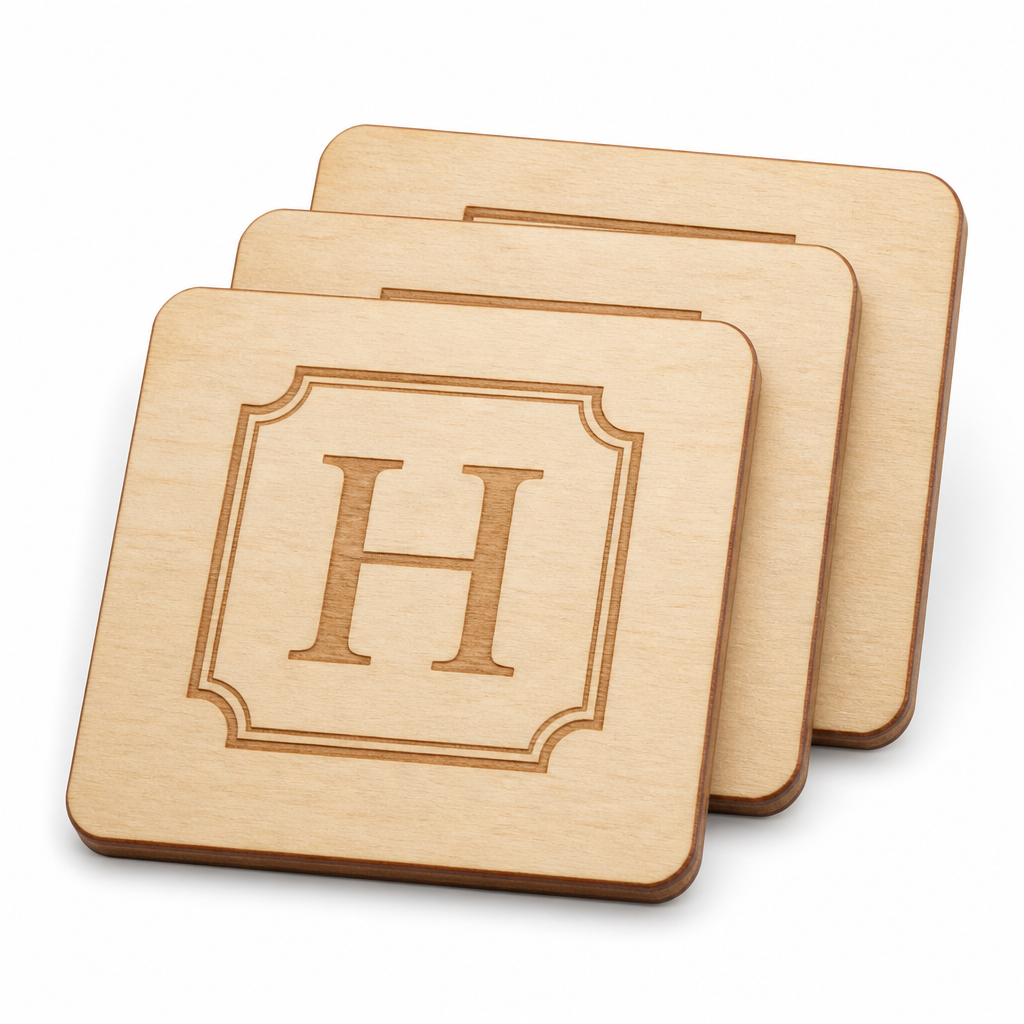
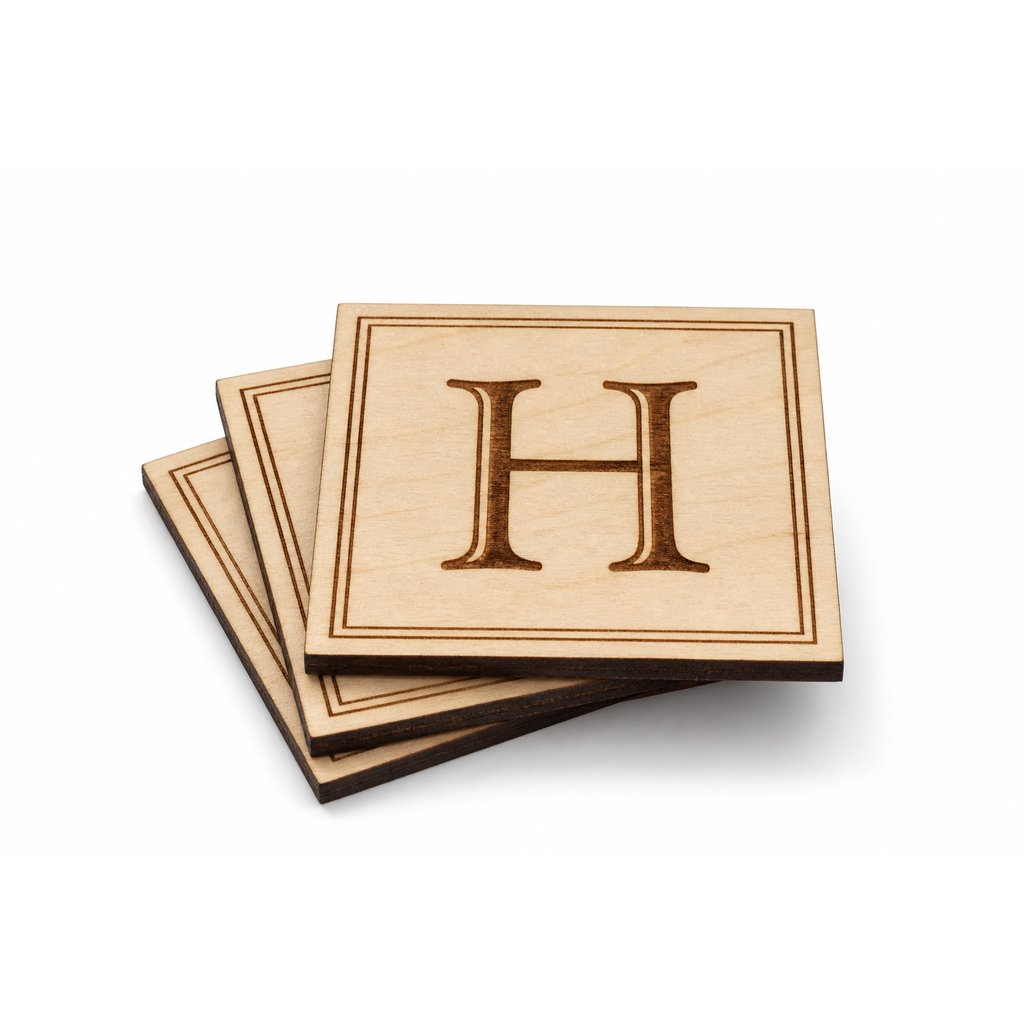
Replace round demo product photos with angular laser-cut ones
Swap circular/oval product imagery (mandala, clock, coasters,
medals, baby plaque, wreath, pendants, hearts) for square,
hexagonal or star-shaped plywood laser-cut photos, and update
catalog labels/sizes to match.

diff --git a/src/data/catalog-products.ts b/src/data/catalog-products.ts
@@ -107,11 +107,11 @@ const DRAFTS: Draft[] = [
     ]),
   },
   {
-    name: "Ключодържател сърце",
+    name: "Ключодържател геометрично сърце",
     slug: "klyuchodarzhatel-sarce",
     category: "keychains",
     description:
-      "Ажурно изрязано сърце с опция за гравиран текст отвътре. Класически подарък за Свети Валентин и годишнини.",
+      "Ажурно геометрично сърце с прави линии — типично за лазерно рязане. Опция за гравиран текст.",
     basePrice: 11,
     options: opts([
       {
@@ -544,19 +544,19 @@ const DRAFTS: Draft[] = [
     slug: "mandala-stenen-dekor",
     category: "decor",
     description:
-      "Фино изрязана мандала с концентрични мотиви. Акцент за хол, йога студио или спалня.",
+      "Квадратен ажурен панел с геометрична мандала. Акцент за хол, йога студио или спалня.",
     basePrice: 44,
     options: opts([
       {
-        label: "ø30 см · 3 мм",
-        sizeLabel: "ø30 см",
+        label: "30×30 см · 3 мм",
+        sizeLabel: "30×30 см",
         thicknessMm: 3,
         laserType: "CUT",
         priceModifier: 0,
       },
       {
-        label: "ø45 см · 4 мм · масло",
-        sizeLabel: "ø45 см",
+        label: "45×45 см · 4 мм · масло",
+        sizeLabel: "45×45 см",
         thicknessMm: 4,
         laserType: "CUT",
         finish: "oil",
@@ -619,19 +619,19 @@ const DRAFTS: Draft[] = [
     slug: "stenen-chasovnik",
     category: "decor",
     description:
-      "Лазерно изрязан циферблат с място за стандартен часовников механизъм (не е включен).",
+      "Квадратен лазерно изрязан циферблат с място за стандартен часовников механизъм (не е включен).",
     basePrice: 52,
     options: opts([
       {
-        label: "ø30 см · 4 мм",
-        sizeLabel: "ø30 см",
+        label: "30×30 см · 4 мм",
+        sizeLabel: "30×30 см",
         thicknessMm: 4,
         laserType: "BOTH",
         priceModifier: 0,
       },
       {
-        label: "ø40 см · ажур · масло",
-        sizeLabel: "ø40 см",
+        label: "40×40 см · ажур · масло",
+        sizeLabel: "40×40 см",
         thicknessMm: 4,
         laserType: "BOTH",
         finish: "oil",
@@ -1216,11 +1216,11 @@ const DRAFTS: Draft[] = [
     ]),
   },
   {
-    name: "Валентинско сърце орнамент",
+    name: "Валентински орнамент със сърце",
     slug: "valentinsko-sarce",
     category: "ornaments",
     description:
-      "Сърце с гравирано послание или дата. За Свети Валентин и годишнини.",
+      "Квадратен орнамент с ажурно сърце и място за послание или дата. За Свети Валентин и годишнини.",
     basePrice: 11,
     options: opts([
       {
@@ -1284,8 +1284,8 @@ const DRAFTS: Draft[] = [
         priceModifier: 0,
       },
       {
-        label: "Кръг · 4 мм · лак",
-        sizeLabel: "ø9 см",
+        label: "Квадрат · 4 мм · лак",
+        sizeLabel: "9×9 см",
         thicknessMm: 4,
         laserType: "ENGRAVE",
         finish: "lacquer",
@@ -1478,19 +1478,19 @@ const DRAFTS: Draft[] = [
     slug: "kolie-medalion",
     category: "jewelry",
     description:
-      "Кръгъл или сърцевиден медальон с инициали. Верижка по заявка или само висулката.",
+      "Шестоъгълен медальон с инициали — удобен за лазерно рязане. Верижка по заявка или само висулката.",
     basePrice: 16,
     options: opts([
       {
-        label: "Висулка · 3 мм",
-        sizeLabel: "ø3 см",
+        label: "Шестоъгълник · 3 мм",
+        sizeLabel: "3×3 см",
         thicknessMm: 3,
         laserType: "BOTH",
         priceModifier: 0,
       },
       {
         label: "Двустранен · масло",
-        sizeLabel: "ø3.5 см",
+        sizeLabel: "3.5×3.5 см",
         thicknessMm: 3,
         laserType: "BOTH",
         finish: "oil",
@@ -1530,19 +1530,19 @@ const DRAFTS: Draft[] = [
     slug: "medalion-lubimets",
     category: "pets",
     description:
-      "Лек дървен медальон с име и телефон. Не е заместител на металния чип — декоративен слой.",
+      "Лек шестоъгълен дървен таг с име. Не е заместител на металния чип — декоративен слой.",
     basePrice: 12,
     options: opts([
       {
-        label: "Костен · 3 мм",
-        sizeLabel: "4×2.5 см",
+        label: "Шестоъгълник · 3 мм",
+        sizeLabel: "3.5×3.5 см",
         thicknessMm: 3,
         laserType: "BOTH",
         priceModifier: 0,
       },
       {
-        label: "Кръгъл · двустранен",
-        sizeLabel: "ø3.5 см",
+        label: "Шестоъгълник · двустранен",
+        sizeLabel: "3.5×3.5 см",
         thicknessMm: 3,
         laserType: "BOTH",
         doubleSided: true,
@@ -2082,23 +2082,23 @@ const DRAFTS: Draft[] = [
     ]),
   },
   {
-    name: "Коледен венец ажурен",
+    name: "Коледен стенен орнамент",
     slug: "koleden-venets",
     category: "christmas",
     description:
-      "Кръгъл ажурен венец с зимни мотиви. За врата или стена — лек и декоративен.",
+      "Квадратен ажурен коледен орнамент със зимна сцена. За врата или стена — лек и декоративен.",
     basePrice: 42,
     options: opts([
       {
-        label: "ø30 см · 3 мм",
-        sizeLabel: "ø30 см",
+        label: "30×30 см · 3 мм",
+        sizeLabel: "30×30 см",
         thicknessMm: 3,
         laserType: "CUT",
         priceModifier: 0,
       },
       {
-        label: "ø40 см · масло",
-        sizeLabel: "ø40 см",
+        label: "40×40 см · масло",
+        sizeLabel: "40×40 см",
         thicknessMm: 4,
         laserType: "CUT",
         finish: "oil",
@@ -2461,19 +2461,19 @@ const DRAFTS: Draft[] = [
     slug: "medal-yubilyar",
     category: "birthday",
     description:
-      "Дървен медал с панделка и гравиране. Забавен акцент за рожденика.",
+      "Звезден дървен медал с панделка и гравиране. Забавен акцент за рожденика.",
     basePrice: 16,
     options: opts([
       {
         label: "Стандарт · 3 мм",
-        sizeLabel: "ø7 см",
+        sizeLabel: "7×7 см",
         thicknessMm: 3,
         laserType: "BOTH",
         priceModifier: 0,
       },
       {
         label: "Голям · масло",
-        sizeLabel: "ø9 см",
+        sizeLabel: "9×9 см",
         thicknessMm: 4,
         laserType: "BOTH",
         finish: "oil",
@@ -2634,23 +2634,23 @@ const DRAFTS: Draft[] = [
     ]),
   },
   {
-    name: "Кръгла табела с име на бебе",
+    name: "Табела с име на бебе",
     slug: "kragla-tabela-ime-bebe",
     category: "newborn",
     description:
-      "Кръгла именна табела за над креватчето. Нежен шрифт и опционален мотив.",
+      "Правоъгълна именна табела за над креватчето. Нежен шрифт и опционален мотив.",
     basePrice: 36,
     options: opts([
       {
-        label: "ø20 см · 4 мм",
-        sizeLabel: "ø20 см",
+        label: "28×18 см · 4 мм",
+        sizeLabel: "28×18 см",
         thicknessMm: 4,
         laserType: "BOTH",
         priceModifier: 0,
       },
       {
-        label: "ø30 см · масло",
-        sizeLabel: "ø30 см",
+        label: "35×22 см · масло",
+        sizeLabel: "35×22 см",
         thicknessMm: 4,
         laserType: "BOTH",
         finish: "oil",
